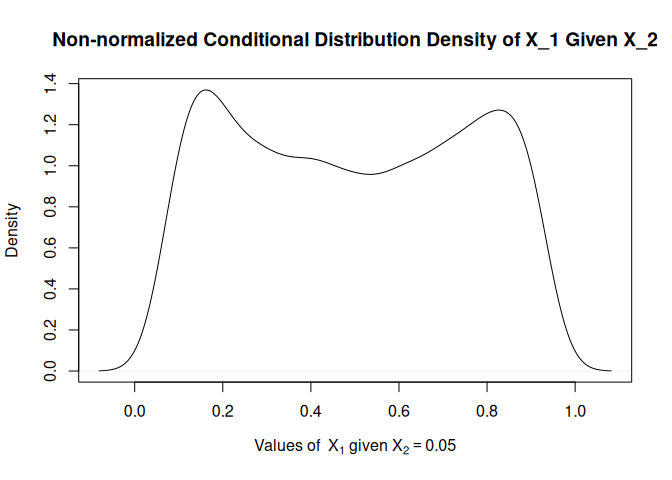
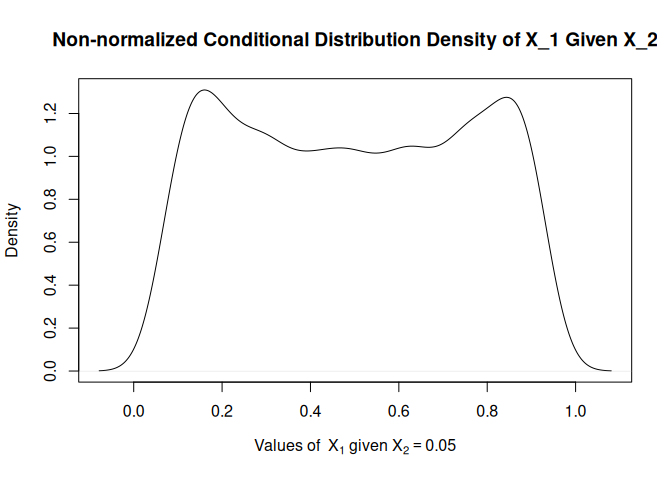
Update

diff --git a/randomsamples.md b/randomsamples.md
@@ -169,10 +169,10 @@ df <- data.frame(
 df
 ```
 
-    ##                    Acceptance.Rate Acceptance.Rate.Post.Burn.in     ESS Length
-    ## Chain Measurements       0.5650557                    0.5643954 3433.86   3800
+    ##                    Acceptance.Rate Acceptance.Rate.Post.Burn.in      ESS Length
+    ## Chain Measurements       0.5655857                    0.5647638 3453.489   3800
     ##                    Precision
-    ## Chain Measurements  2.991663
+    ## Chain Measurements  2.991299
 
 ## Convergence Monitoring with Fixed Seeds
 
@@ -228,7 +228,7 @@ round(apply(ExampleFC_X1_X2_seedgiven[1:3800,], 2, mean),3)
 ```
 
     ##   0.1   0.2   0.3   0.4   0.5   0.6   0.7   0.8   0.9 
-    ## 0.497 0.497 0.501 0.503 0.494 0.506 0.497 0.494 0.500
+    ## 0.500 0.501 0.498 0.502 0.503 0.494 0.505 0.504 0.496
 
 # Gibbs Sampling
 
@@ -364,28 +364,28 @@ combined_df %>%
 
 |                | Numerical Results | Theoretical Results | Differences |
 |:---------------|------------------:|--------------------:|------------:|
-| Mean_X1        |             0.928 |               0.917 |      -0.012 |
-| Var_X1         |             3.436 |               7.851 |       4.415 |
-| ESS_X1         |          4153.223 |            3800.000 |    -353.223 |
-| STDERR_Mean_X1 |             0.029 |                  NA |          NA |
-| STDERR_Var_X1  |             0.605 |                  NA |          NA |
-| CI_Mean1_Lower |             0.039 |                  NA |          NA |
-| CI_Mean1_Upper |             4.550 |                  NA |          NA |
-| CI_Var1_Lower  |             2.343 |                  NA |          NA |
-| CI_Var1_Upper  |             4.801 |                  NA |          NA |
-| Mean_X2        |             0.900 |               0.917 |       0.017 |
-| Var_X2         |             4.305 |               7.851 |       3.546 |
+| Mean_X1        |             0.886 |               0.917 |       0.031 |
+| Var_X1         |             2.311 |               7.851 |       5.541 |
+| ESS_X1         |          3800.000 |            3800.000 |       0.000 |
+| STDERR_Mean_X1 |             0.025 |                  NA |          NA |
+| STDERR_Var_X1  |             0.396 |                  NA |          NA |
+| CI_Mean1_Lower |             0.041 |                  NA |          NA |
+| CI_Mean1_Upper |             4.140 |                  NA |          NA |
+| CI_Var1_Lower  |             1.630 |                  NA |          NA |
+| CI_Var1_Upper  |             3.147 |                  NA |          NA |
+| Mean_X2        |             0.873 |               0.917 |       0.043 |
+| Var_X2         |             2.210 |               7.851 |       5.641 |
 | ESS_X2         |          3800.000 |            3800.000 |       0.000 |
-| STDERR_Mean_X2 |             0.034 |                  NA |          NA |
-| STDERR_Var_X2  |             1.933 |                  NA |          NA |
+| STDERR_Mean_X2 |             0.024 |                  NA |          NA |
+| STDERR_Var_X2  |             0.493 |                  NA |          NA |
 | CI_Mean2_Lower |             0.037 |                  NA |          NA |
-| CI_Mean2_Upper |             4.202 |                  NA |          NA |
-| CI_Var2_Lower  |             1.727 |                  NA |          NA |
-| CI_Var2_Upper  |             8.766 |                  NA |          NA |
-| Cov            |             2.079 |               5.135 |       3.056 |
-| STDERR_Cov     |             0.518 |                  NA |          NA |
-| CI_Cov_Lower   |             1.213 |                  NA |          NA |
-| CI_Cov_Upper   |             3.265 |                  NA |          NA |
+| CI_Mean2_Upper |             4.338 |                  NA |          NA |
+| CI_Var2_Lower  |             1.481 |                  NA |          NA |
+| CI_Var2_Upper  |             3.342 |                  NA |          NA |
+| Cov            |             1.428 |               5.135 |       3.707 |
+| STDERR_Cov     |             0.354 |                  NA |          NA |
+| CI_Cov_Lower   |             0.900 |                  NA |          NA |
+| CI_Cov_Upper   |             2.223 |                  NA |          NA |
 | Length         |          3800.000 |            3800.000 |       0.000 |
 
 Summary Statistics for Different Measures
@@ -412,7 +412,7 @@ Gelm_Rud_X2 = gelman.diag(list(mcmc(sample1$X2[seq((burnin+1), N, by=thin)]), mc
 print(c(Gelm_Rud_X1,Gelm_Rud_X2))
 ```
 
-    ## [1] 1.000875 1.000143
+    ## [1] 1.000084 1.000262
 
 # Comparison Using an Alternative Parameter Configuration
 
@@ -423,7 +423,7 @@ that the thinning factor was reduced to 5.
 
 ``` r
 a2=3;b2=6;c2=3;d2=6
-Example_Joint_Dist1=Gen_Joint_Dist(N1 = 10^5,N2 = 2,prop_prec=3,a = a2,b = b2,c = c2,d = d2,thin = 2, X10_given = "random",target_acceptance = 0.4)
+Example_Joint_Dist1=Gen_Joint_Dist(N1 = 10^5,N2 = 2,prop_prec=4,a = a2,b = b2,c = c2,d = d2,thin = 2, X10_given = "random",target_acceptance = 0.4)
 
 results_measure_diag1=Measure_Diagnostic(data1 = Example_Joint_Dist1$X1,data2 = Example_Joint_Dist1$X2, var ="transform", digits = 3, a = a2, b = b2, c = c2, d = d2, burnin = 5000, thin = 5)
 ```
@@ -450,28 +450,28 @@ combined_df %>%
 
 |                | Numerical Results | Theoretical Results | Differences |
 |:---------------|------------------:|--------------------:|------------:|
-| Mean_X1        |             1.069 |                 1.0 |      -0.069 |
-| Var_X1         |             1.909 |                 1.8 |      -0.109 |
+| Mean_X1        |             1.086 |                 1.0 |      -0.086 |
+| Var_X1         |             1.828 |                 1.8 |      -0.028 |
 | ESS_X1         |         19000.000 |             19000.0 |       0.000 |
 | STDERR_Mean_X1 |             0.010 |                  NA |          NA |
-| STDERR_Var_X1  |             0.268 |                  NA |          NA |
-| CI_Mean1_Lower |             0.144 |                  NA |          NA |
-| CI_Mean1_Upper |             4.137 |                  NA |          NA |
-| CI_Var1_Lower  |             1.494 |                  NA |          NA |
-| CI_Var1_Upper  |             2.515 |                  NA |          NA |
-| Mean_X2        |             1.902 |                 2.0 |       0.098 |
-| Var_X2         |             4.532 |                 5.8 |       1.268 |
-| ESS_X2         |         18018.001 |             19000.0 |     981.999 |
-| STDERR_Mean_X2 |             0.016 |                  NA |          NA |
-| STDERR_Var_X2  |             0.271 |                  NA |          NA |
-| CI_Mean2_Lower |             0.315 |                  NA |          NA |
-| CI_Mean2_Upper |             6.965 |                  NA |          NA |
-| CI_Var2_Lower  |             4.035 |                  NA |          NA |
-| CI_Var2_Upper  |             5.093 |                  NA |          NA |
-| Cov            |             2.166 |                 2.2 |       0.034 |
-| STDERR_Cov     |             0.189 |                  NA |          NA |
-| CI_Cov_Lower   |             1.848 |                  NA |          NA |
-| CI_Cov_Upper   |             2.590 |                  NA |          NA |
+| STDERR_Var_X1  |             0.253 |                  NA |          NA |
+| CI_Mean1_Lower |             0.148 |                  NA |          NA |
+| CI_Mean1_Upper |             4.258 |                  NA |          NA |
+| CI_Var1_Lower  |             1.438 |                  NA |          NA |
+| CI_Var1_Upper  |             2.403 |                  NA |          NA |
+| Mean_X2        |             1.942 |                 2.0 |       0.058 |
+| Var_X2         |             5.252 |                 5.8 |       0.548 |
+| ESS_X2         |         19000.000 |             19000.0 |       0.000 |
+| STDERR_Mean_X2 |             0.017 |                  NA |          NA |
+| STDERR_Var_X2  |             0.698 |                  NA |          NA |
+| CI_Mean2_Lower |             0.309 |                  NA |          NA |
+| CI_Mean2_Upper |             7.204 |                  NA |          NA |
+| CI_Var2_Lower  |             4.193 |                  NA |          NA |
+| CI_Var2_Upper  |             6.891 |                  NA |          NA |
+| Cov            |             2.466 |                 2.2 |      -0.266 |
+| STDERR_Cov     |             0.408 |                  NA |          NA |
+| CI_Cov_Lower   |             1.871 |                  NA |          NA |
+| CI_Cov_Upper   |             3.443 |                  NA |          NA |
 | Length         |         19000.000 |             19000.0 |       0.000 |
 
 Summary Statistics for Different Measures
@@ -496,7 +496,7 @@ Gelm_Rud_X2 = gelman.diag(list(mcmc(sample1$X2[seq((burnin+1), N, by=thin)]), mc
 print(c(Gelm_Rud_X1,Gelm_Rud_X2))
 ```
 
-    ## [1] 1.0000538 0.9999126
+    ## [1] 1.0002408 0.9999794
 
 # Application
 
@@ -519,35 +519,35 @@ differences_df <- as.data.frame.matrix(t(results_measure_diag3$Differences))
 combined_df <- cbind(numerical_df, analytical_df[,1],differences_df[,1])
 names(combined_df)=c("Numerical Results", "Theoretical Results", "Differences")
 
-# The table is created with kable
+# The table is created with kable 
 combined_df %>%
   kable(caption = "Summary Statistics for Different Measures", digits = 3) 
 ```
 
 |                | Numerical Results | Theoretical Results | Differences |
 |:---------------|------------------:|--------------------:|------------:|
-| Mean_X1        |             4.783 |               4.733 |      -0.050 |
-| Var_X1         |             0.773 |               0.758 |      -0.015 |
+| Mean_X1        |             4.784 |               4.733 |      -0.051 |
+| Var_X1         |             0.781 |               0.758 |      -0.023 |
 | ESS_X1         |         19000.000 |           19000.000 |       0.000 |
 | STDERR_Mean_X1 |             0.006 |                  NA |          NA |
-| STDERR_Var_X1  |             0.009 |                  NA |          NA |
-| CI_Mean1_Lower |             3.335 |                  NA |          NA |
-| CI_Mean1_Upper |             6.753 |                  NA |          NA |
-| CI_Var1_Lower  |             0.754 |                  NA |          NA |
-| CI_Var1_Upper  |             0.791 |                  NA |          NA |
-| Mean_X2        |            75.629 |              75.630 |       0.001 |
-| Var_X2         |           154.110 |             154.651 |       0.541 |
+| STDERR_Var_X1  |             0.011 |                  NA |          NA |
+| CI_Mean1_Lower |             3.329 |                  NA |          NA |
+| CI_Mean1_Upper |             6.786 |                  NA |          NA |
+| CI_Var1_Lower  |             0.762 |                  NA |          NA |
+| CI_Var1_Upper  |             0.801 |                  NA |          NA |
+| Mean_X2        |            75.526 |              75.630 |       0.104 |
+| Var_X2         |           155.367 |             154.651 |      -0.716 |
 | ESS_X2         |         19000.000 |           19000.000 |       0.000 |
 | STDERR_Mean_X2 |             0.090 |                  NA |          NA |
-| STDERR_Var_X2  |             1.810 |                  NA |          NA |
-| CI_Mean2_Lower |            55.103 |                  NA |          NA |
-| CI_Mean2_Upper |           103.392 |                  NA |          NA |
-| CI_Var2_Lower  |           150.439 |                  NA |          NA |
-| CI_Var2_Upper  |           157.875 |                  NA |          NA |
-| Cov            |             9.587 |               9.517 |      -0.070 |
-| STDERR_Cov     |             0.122 |                  NA |          NA |
-| CI_Cov_Lower   |             9.345 |                  NA |          NA |
-| CI_Cov_Upper   |             9.831 |                  NA |          NA |
+| STDERR_Var_X2  |             2.126 |                  NA |          NA |
+| CI_Mean2_Lower |            54.872 |                  NA |          NA |
+| CI_Mean2_Upper |           103.797 |                  NA |          NA |
+| CI_Var2_Lower  |           151.491 |                  NA |          NA |
+| CI_Var2_Upper  |           159.359 |                  NA |          NA |
+| Cov            |             9.719 |               9.517 |      -0.202 |
+| STDERR_Cov     |             0.145 |                  NA |          NA |
+| CI_Cov_Lower   |             9.461 |                  NA |          NA |
+| CI_Cov_Upper   |             9.989 |                  NA |          NA |
 | Length         |         19000.000 |           19000.000 |       0.000 |
 
 Summary Statistics for Different Measures
@@ -568,4 +568,4 @@ Gelm_Rud_X2 = gelman.diag(list(mcmc(sample1$X2[seq((burnin+1), N, by=thin)]), mc
 print(c(Gelm_Rud_X1,Gelm_Rud_X2))
 ```
 
-    ## [1] 1.001263 1.000680
+    ## [1] 1.0000941 0.9998833
